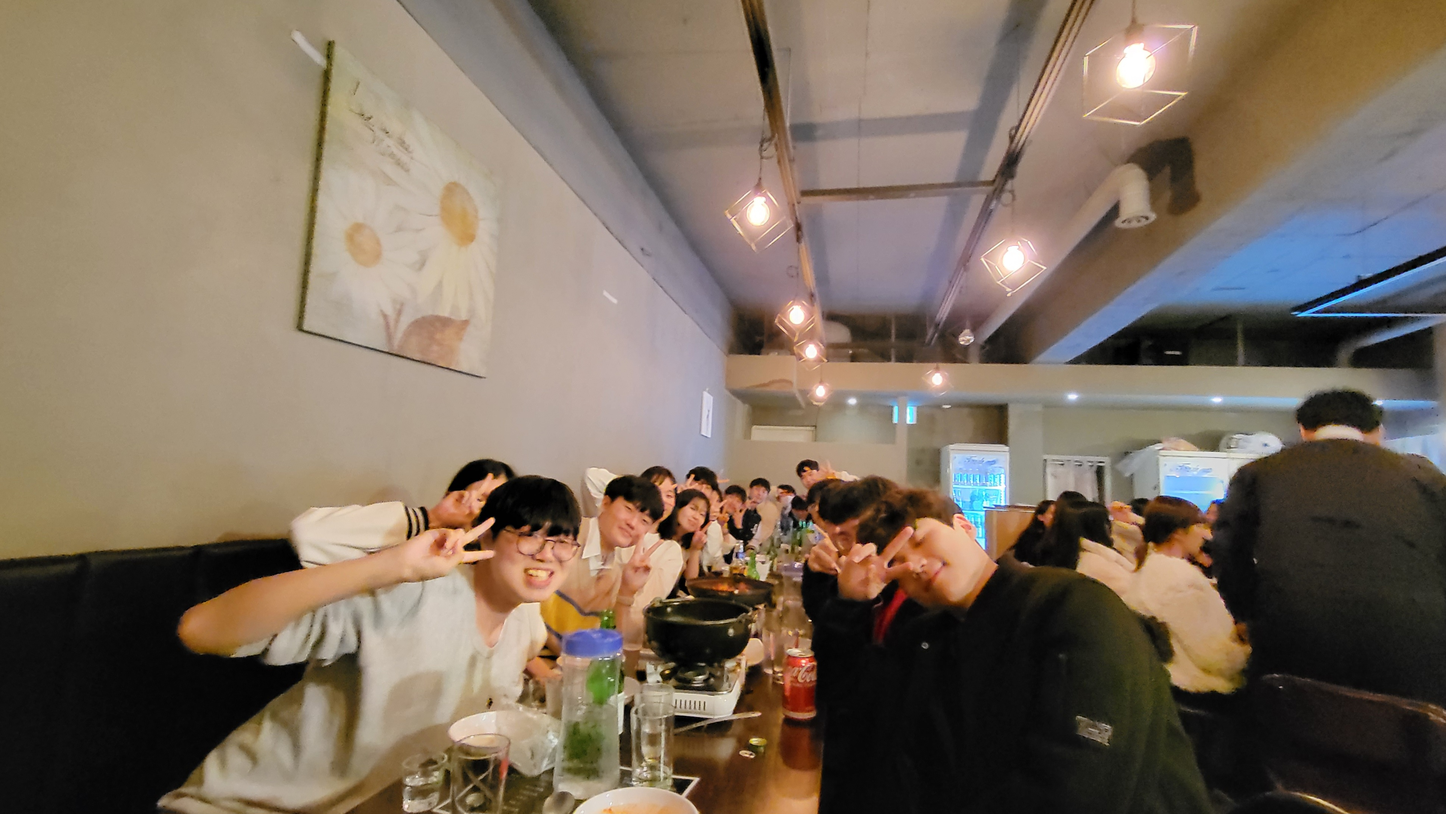
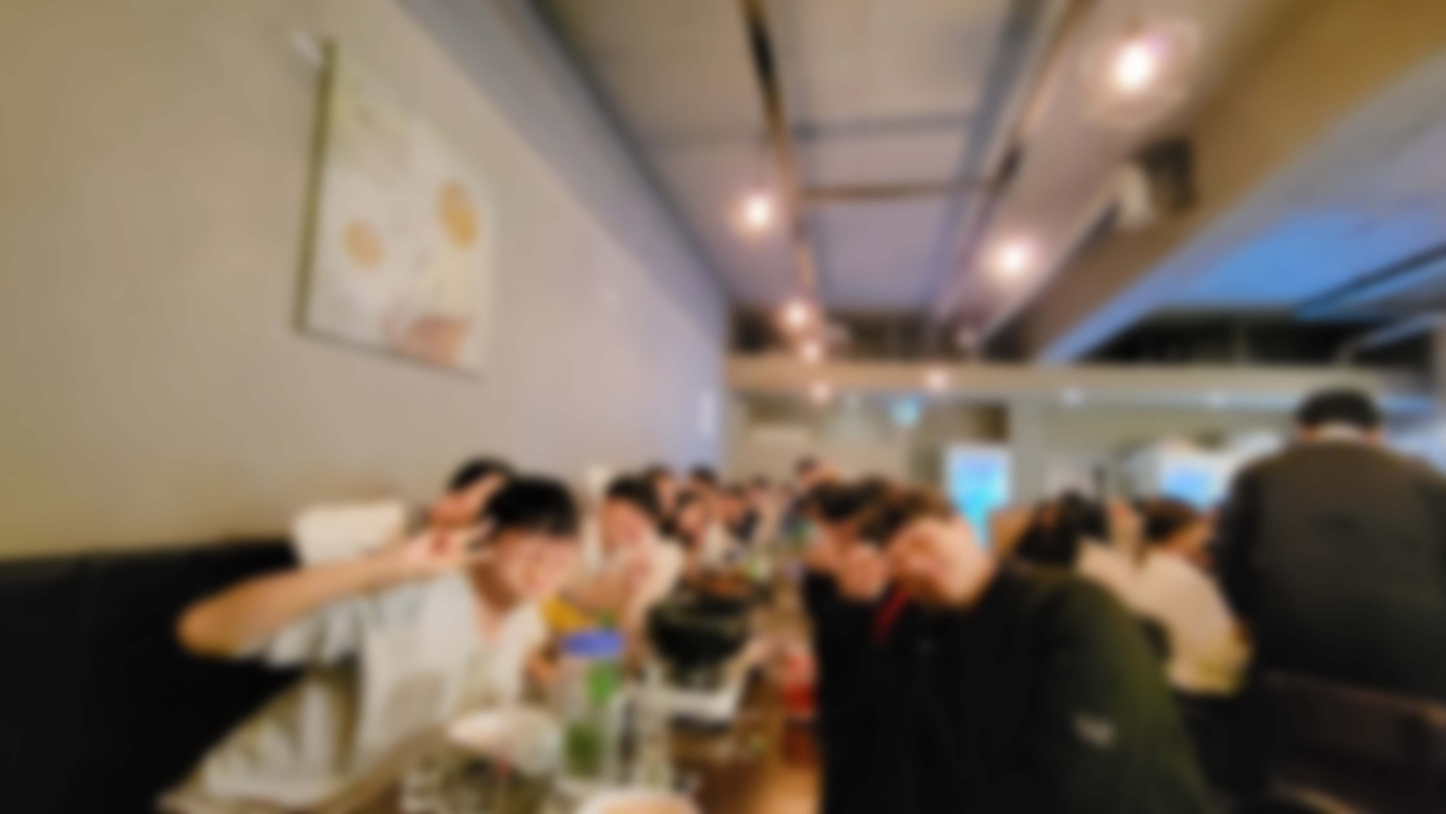
Add real blur on image

diff --git a/_sass/components/hero.scss b/_sass/components/hero.scss
@@ -18,8 +18,6 @@
   right: 0;
   padding: 2rem;
   background-color: rgba($surface-color, 0.38);
-  backdrop-filter: blur(5px);
-  -webkit-backdrop-filter: blur(5px);
 }
 
 .hero__title {
